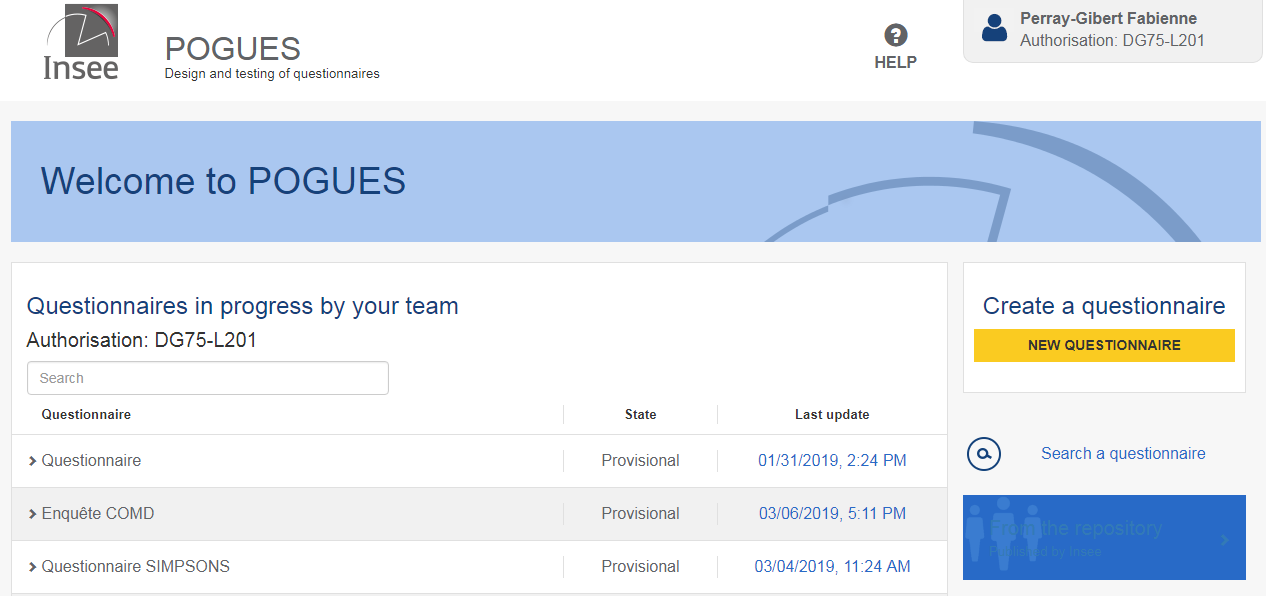
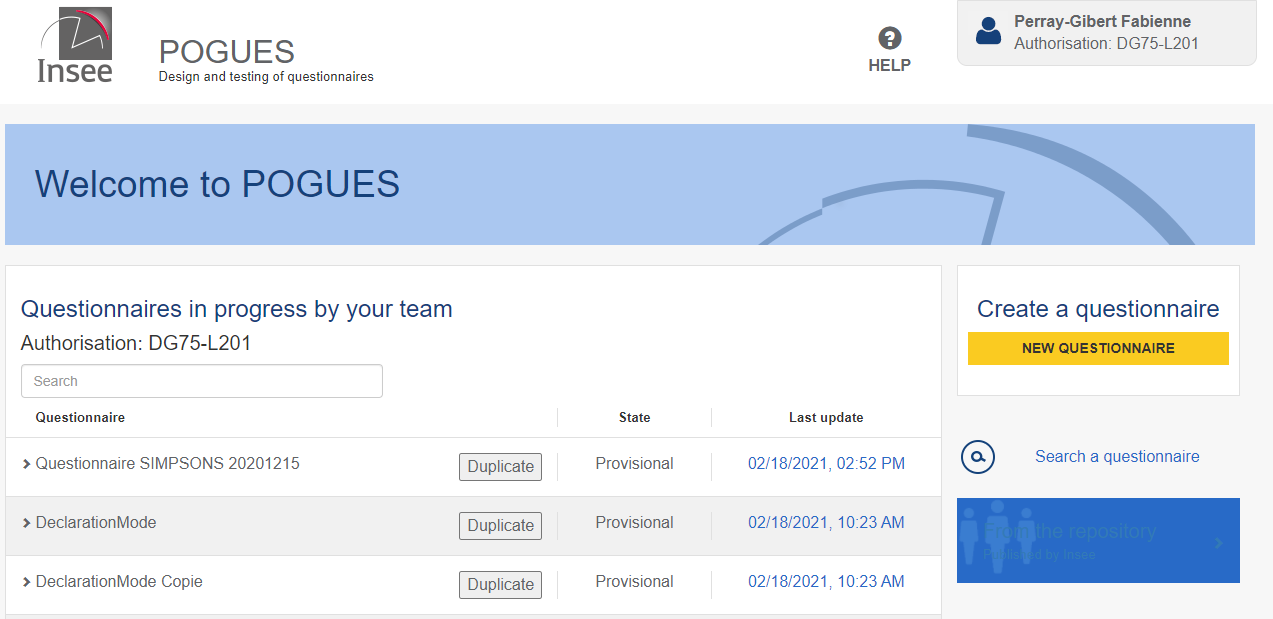
Update documentation for new release

diff --git a/docs/fr/guide-utilisateur/guide-utilisateur.md b/docs/fr/guide-utilisateur/guide-utilisateur.md
@@ -1,5 +1,5 @@
 # Guide utilisateur Pogues
-Version au 11/12/2020
+Version au 01/03/2021
 
 ---
 
@@ -33,6 +33,10 @@ http://conception-questionnaires.insee.fr
 # Conseil pour la saisie 
 
 Afin d'éviter d'embarquer des caractères spéciaux qui pourraient compromettre parfois le bon fonctionnement de l'application, on conseille fortement d'utiliser un intermédiaire de type Notepad++ (encodage en UTF8) voire Bloc-Notes comme intermédiaire pour les copier/coller entre votre liste de questions originelle et Pogues.
+
+---
+# Page d'accueil
+Depuis la page d'accueil de Pogues, il est possible d'accéder à l'ensemble des questionnaires dont vous êtes propriétaire afin de les visualiser et ou de les modifier en cliquant sur leur titre ou de dupliquer un questionnaire en cliquant sur le bouton Dupliquer. 
 
 ---
 
@@ -323,7 +327,7 @@ aller dans l'onglet "Variables collectées" pour les générer
 ---
 
 - Cliquer sur le bouton "Générer les variables collectées" et modifier les libellés et identifiants proposés par défaut par l'application par un libellé signifiant (penser à vos successeurs) et l'identifiant métier de la ou des variables collectées. 
-- **Dans le cas où certaines cellules d'un tableau ne sont pas à collecter car sans objet ou destinées par exemple à rappeler un total calculé, collecté ou en dur (par exemple 100%), décocher pour chaque cellule concernée le booléen Collectée associée à la variable collectée ad hoc.**
+- **Dans le cas où certaines cellules d'un tableau ou d'une question à choix multiples ne sont pas à collecter car sans objet ou destinées par exemple à rappeler un total calculé, collecté ou en dur (par exemple 100%), décocher pour chaque cellule concernée le booléen Collectée associée à la variable collectée ad hoc.**
 
 - Au fur et à mesure de vos modifications, cliquer sur le bouton "Valider" affiché le plus haut et le plus à droite de votre écran (en bas à droite de l'écran grisé). 
 
@@ -613,9 +617,9 @@ NB : pour mettre une apostrophe dans un libellé, il faut en saisir deux d'affil
 Calculer l'âge exact à la date de collecte sachant la date de naissance DATENAISSANCE :
 Déclarer les variables calculées
 Jour et mois courant JJMMCOURANT=number(concat(substring(string(current-date()),6,2),substring(string(current-date()),9,2)))
-Jour et mois de naissance JJMMNAISS=number(concat(substring(string(\$DATENAISSANCE\$),6,2),substring(string(\$DATENAISSANCE\$),9,2)))
+Jour et mois de naissance JJMMNAISS=if string (\$DATENAISSANCE\$) != '' then number(concat(substring(string(\$DATENAISSANCE\$),6,2),substring(string(\$DATENAISSANCE\$),9,2))) else 0
 Année courante ANNEECOURANTE=number(substring(string(current-date()),1,4)) 
-Année de naissance ANNEENAISS=number(substring(string(\$DATENAISSANCE\$),1,4)) 
+Année de naissance ANNEENAISS=if string (\$DATENAISSANCE\$) != '' then number(substring(string(\$DATENAISSANCE\$),1,4)) else 0
 
 ---
 # Exemple (suite) : 
@@ -784,7 +788,7 @@ Attention aux éléments déplacés en cas de redirection, la cible d'une questi
 
 # Sauvegarder ou Visualiser le questionnaire
 
-Il est possible de sauvegarder ou de visualiser (Web,PDF,Spécification ou DDI) le questionnaire à tout moment (ou presque) via les boutons dédiés en bas de page de l'IHM Pogues. Le bouton "Publier" sera prochainement accessible, il signifie publier/enregistrer le questionnaire au sein du référentiel RMéS. Le bouton "Saut de page" n'est actuellement pas fonctionnel.
+Il est possible de sauvegarder ou de visualiser (Web,PDF,Poste enquêteur, Spécification ou DDI) le questionnaire à tout moment (ou presque) via les boutons dédiés en bas de page de l'IHM Pogues. Le bouton "Publier" sera prochainement accessible, il signifie publier/enregistrer le questionnaire au sein du référentiel RMéS. Le bouton "Saut de page" n'est actuellement pas fonctionnel.
 
 ![](../../img/fr/ecran21.png)
 
@@ -812,7 +816,7 @@ Les contrôles d'intégrité du questionnaire suivants sont actuellement implém
 - Gérer des unités autres que €, k€, %, heures, jours, mois, années
 - Gérer les hyperliens et les mailto
 - Gérer les enquêtes multi-modèles
-- Associer des images à des modalités de réponse (exemple : flèches des e enquêtes de conjoncture)
+- Associer des images à des modalités de réponse (exemple : flèches des  enquêtes de conjoncture)
 - La prise en compte du multimode (CAWI, CAPI, PAPI, CATI)
 *Possible de le renseigner mais n'est pas pris en compte dans l'affichage du questionnaire*
 ---

diff --git a/docs/en/user-guide/user-guide.md b/docs/en/user-guide/user-guide.md
@@ -1,6 +1,6 @@
 # User guide for Pogues
 
-Last release 2020/12/11
+Last release 2021/03/01
 
 ---
 
@@ -31,6 +31,11 @@ http://conception-questionnaires.insee.fr
 
 # Advice for entry
 In order to avoid embedding special characters that could sometimes compromise the proper functioning of the application, we strongly recommend using an intermediary like Notepad++ (encoding in UTF8) or Notepad to copy/paste between your original question list and Pogues
+
+---
+# Homepage
+
+From the Pogues home page, you can access all the questionnaires you own in order to view and or modify them by clicking on their title or to duplicate a questionnaire by clicking on the Duplicate button. 
 
 ---
 
@@ -317,7 +322,7 @@ go to "collected variables" tab to generate them
  		
 ---
 - Click on the button "Generate collected variables" and modify label proposed by default by pogues with a significant label (think about your successors) and, if necessary, modify id
-- **If some cells in a table are not to be collected because they are not applicable or are intended, for example, to recall a calculated, collected or hard total (for example 100%), uncheck for each cell concerned the Collected boolean associated with the variable collected ad hoc.**
+- **If some cells in a table or a multiple choice question are not to be collected because they are not applicable or are intended, for example, to recall a calculated, collected or hard total (for example 100%), uncheck for each cell concerned the Collected boolean associated with the variable collected ad hoc.**
 
 - As your changes are made, click on "Validate" displayed at the bottom right of the grey area
 
@@ -698,7 +703,7 @@ Be careful with the elements moved in case of redirection, the target of a quest
 
 # Save or Visualise the questionnaire
 
-It is possible to save or view (Web,PDF,Specification or DDI) the questionnaire at any time (or almost) via the dedicated buttons at the bottom of the page of the Pogues interface. 
+It is possible to save or view (Web,PDF,Interviewer form, Specification or DDI) the questionnaire at any time (or almost) via the dedicated buttons at the bottom of the page of the Pogues interface. 
 The "Publish" button will soon be available, it means to publish/register the questionnaire within the RMéS repository. 
 The "Page break" button is currently not working.
 
